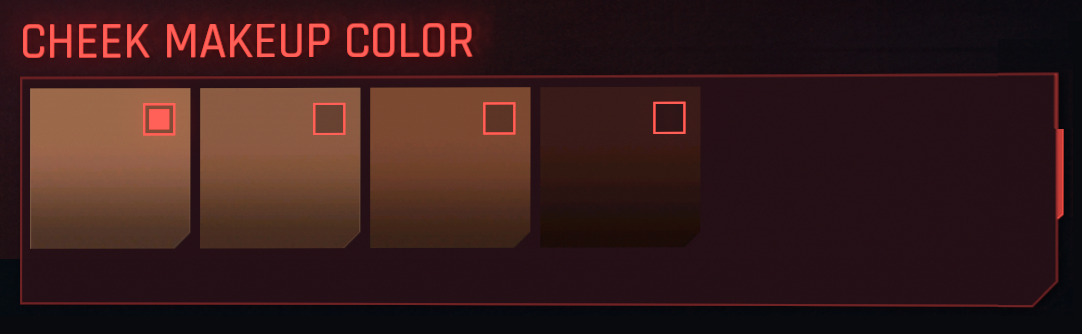
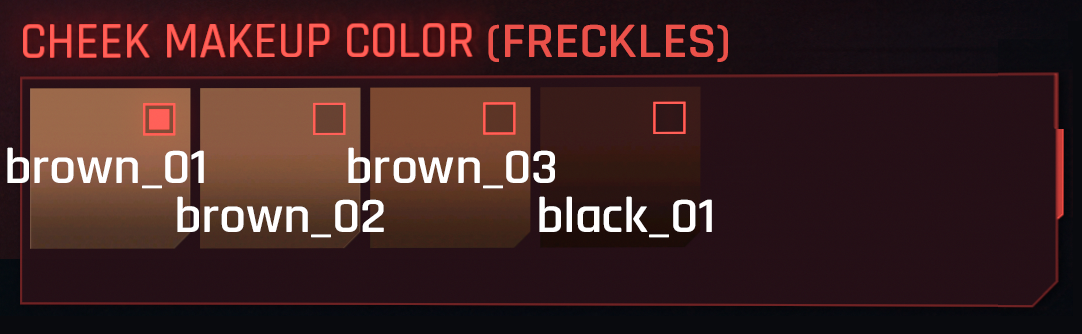
GITBOOK-1546: character creator: cheek make-up

diff --git a/for-mod-creators-theory/references-lists-and-overviews/cheat-sheet-character-creator.md b/for-mod-creators-theory/references-lists-and-overviews/cheat-sheet-character-creator.md
@@ -95,11 +95,15 @@ Link: [Reference images on imgur](https://imgur.com/a/NlbCHYK)
 
 ## Cheek Makeup Style
 
-to be done
+<figure><img src="../../.gitbook/assets/character_creator_cheek_makeup_options.png" alt=""><figcaption></figcaption></figure>
+
+<table><thead><tr><th width="158"></th><th></th></tr></thead><tbody><tr><td>01</td><td>frecles (brown_01, brown_02, brown_03, black_01)</td></tr><tr><td>02</td><td>frecles (brown_04, brown_05, brown_06, black_02)</td></tr><tr><td>03</td><td>frecles (brown_07, brown_08, brown_09, black_03)</td></tr><tr><td>04</td><td>frecles (brown_10, brown_11, brown_12, black_04)</td></tr><tr><td>05</td><td>cheeks (_color_01)</td></tr><tr><td>06</td><td>cheeks (_color_02)</td></tr><tr><td>07</td><td>cheeks (_color_03)</td></tr><tr><td>08</td><td>cheeks (_color_04)</td></tr><tr><td>09</td><td>cheeks (_color_05)</td></tr><tr><td>10</td><td>cheeks (_color_06)</td></tr><tr><td>11</td><td>cheeks (_color_07)</td></tr><tr><td>12</td><td>cheeks (_color_08)</td></tr><tr><td>13</td><td>cheeks (_color_09)</td></tr><tr><td>14</td><td>cheeks (_color_10)</td></tr></tbody></table>
 
 ## Cheek Makeup Color
 
 <figure><img src="../../.gitbook/assets/character_creator_cheek_makeup_color.png" alt=""><figcaption></figcaption></figure>
+
+<figure><img src="../../.gitbook/assets/character_creator_cheek_makeup_color_2.png" alt=""><figcaption></figcaption></figure>
 
 ## Blemish Color
 
